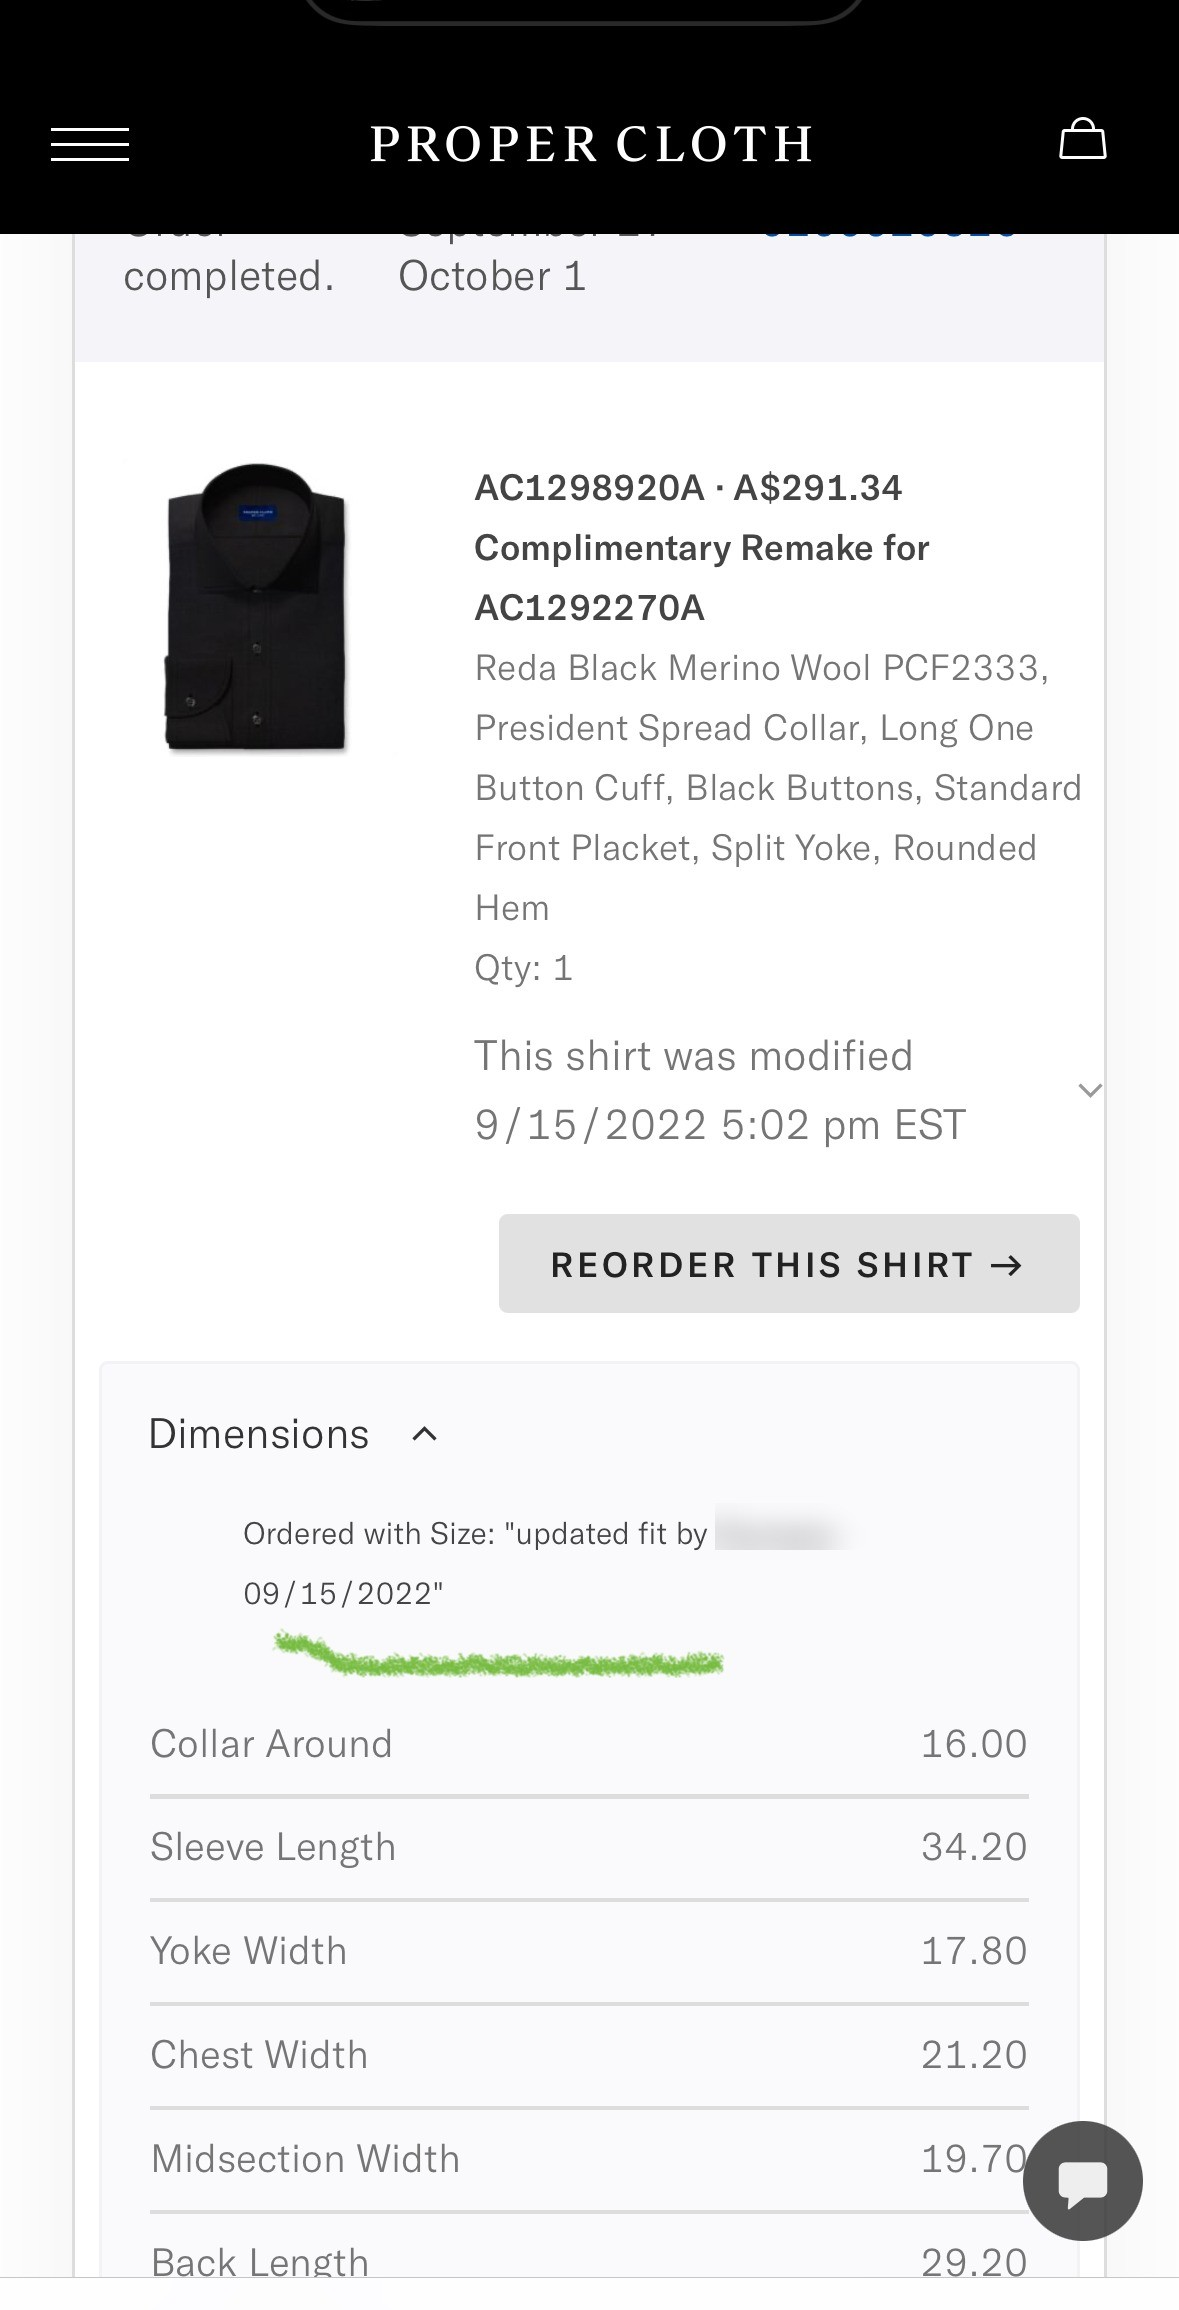
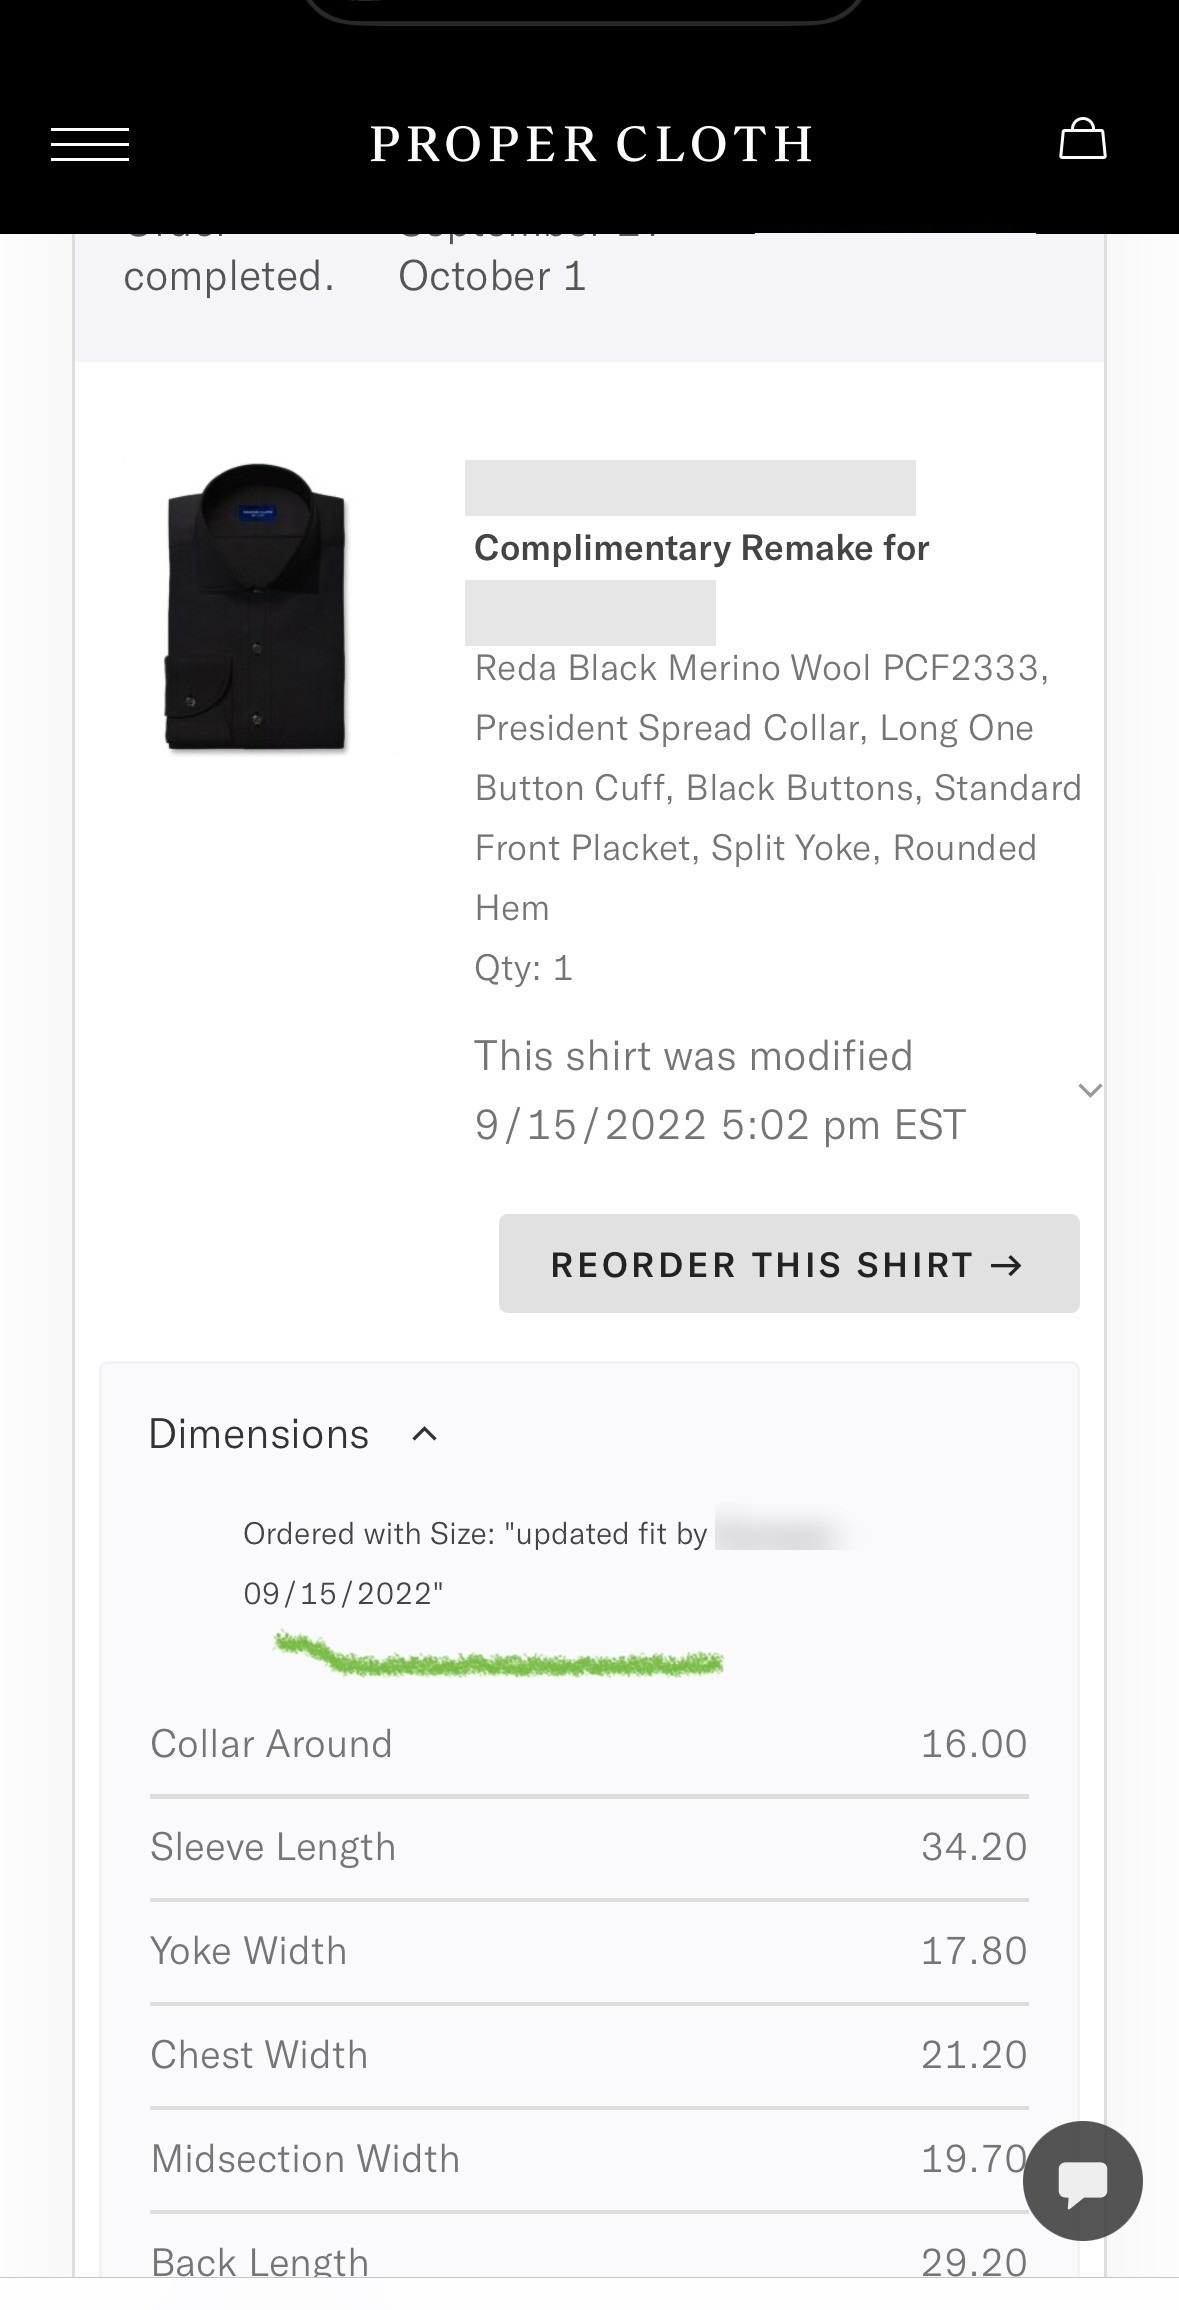
Redact exposed order numbers and phone number from live screenshots
proper-cloth-complimentary-remake.jpg had two full order numbers in
plain text plus a third partially visible under the nav bar, and
commbank-home-loan-appointment-confirmed.jpg had a phone number masked
to only 5 of 10 digits. Painted over all three with pixel-precise
background-matched redaction. Codified the full-frame-scan discipline
(including checking slivers of text hidden under other UI chrome) into
the spotted-in-the-wild skill so this doesn't slip through again.

Claude-Session: https://claude.ai/code/session_01Q6sAq7k5KJdTMe4pCpFx3P

Changed region(s): [[0.3969, 0.187, 0.7939, 0.2805]]

diff --git a/.claude/skills/spotted-in-the-wild/SKILL.md b/.claude/skills/spotted-in-the-wild/SKILL.md
@@ -35,6 +35,16 @@ It's a **real, third-party UI screenshot** offered as a live instance of a mecha
 - **A tightly-cropped screenshot (little margin around the content) breaks the "spotlight" and "hand-drawn circle" options and needs a wider canvas for anything drawn outside the existing frame.** On the second screenshot in the first real case (a two-line ratings badge filling almost the entire crop), spotlight lost its dramatic effect (nothing left to dim), and the circle's sketchy wobble grazed the surrounding text at the edges because there wasn't enough real margin to wobble into. When a highlight needs to extend beyond the tightest reasonable crop (an arrow with clearance, a circle with real breathing room), re-crop from the *original* source image with extra padding on the relevant side rather than padding the already-cropped file, and when programmatically cropping a working image to trim empty space back down afterward, clamp the crop bounds to the image's actual dimensions, `Image.crop()` silently pads out-of-bounds regions with solid black instead of erroring, which shipped once as an unexplained black bar at the bottom of a finished image before it was caught by re-viewing the file.
 - **When personal information sits between two regions you want to keep, don't redact or splice, just start the crop after it.** A real order-summary screenshot had a name and home address between the header and the rest of the page worth keeping. Compositing two non-adjacent regions together to skip the middle leaves a visible seam and looks edited, which undermines the whole point of showing something authentic. Instead, find the exact pixel row where the personal-information block ends (the same pixel-scan technique as locating a highlight box) and crop the single continuous region starting a safe margin below that row. The result is still one unedited, contiguous real screenshot, just missing its very top portion, which reads as an honest crop, not a doctored one.
 
+## Failure mode: the personal-information rule was written down and still didn't get checked
+
+**What happened.** Two images already live on the site (`proper-cloth-complimentary-remake.jpg`, a Science Behind screenshot, and `commbank-home-loan-appointment-confirmed.jpg`, an Experiments screenshot) had a staff name and a phone number blurred, per this skill's own rule, but nobody actually checked the rest of each image for other identifiers. `proper-cloth-complimentary-remake.jpg` had two full order numbers (`AC1298920A`, `AC1292270A`) sitting in plain, high-contrast text one line below the blurred name, unredacted, for days, on the live site. `commbank-home-loan-appointment-confirmed.jpg` had a mobile number masked to only 5 of its 10 digits (`04** *** 400`), leaving the area code and last three digits, which is a partial redaction, not a real one. The rule ("Personal information... must always be removed, no exception") was already written in this skill before either image shipped. It was applied to the one identifier that was easy to spot (a name in a sentence) and not applied as an exhaustive scan of the rest of the frame. A person's eye catches a name; it does not automatically catch a reference-code-shaped string sitting in a product heading, because it doesn't read as "personal information" the same way a name does.
+
+**The check, going forward.** Treat "remove personal information" as a full-frame scan for a category of thing, not a single find-the-name pass. Before finalizing any crop, look specifically for: order numbers, confirmation numbers, reference numbers, account numbers, tracking numbers, invoice numbers, booking references (anything alphanumeric that looks like `AC1298920A` or `#4471829`, whether or not it's labelled), phone numbers (full or partial), email addresses, physical addresses, and dates of birth. A masked value counts as fixed only if the masking removes enough of the string that the remaining fragment can't narrow down the full value in practice, for a phone number that means redacting the whole number, not leaving the area code and last few digits visible, since that's a small enough remaining search space to not count as anonymised. When redacting text found this way (as opposed to a name inside a sentence, where cropping above/below the line usually works), locate the string's real pixel bounding box the same way this skill already locates a highlight target (scan real RGB values in the saved file, not the rendered preview) and paint over it with a rectangle matching the surrounding background colour, padded a few pixels on each side, rather than trying to blur it (a solid fill is unambiguous and doesn't risk a recoverable blur).
+
+**Do this scan on every image before it's saved to `mockup/images/`, not just once at launch.** This applies retroactively too: when a new personal-information category is identified (as order numbers were here), it's worth a quick pass over every existing "spotted in the wild" image already on the site, not just future ones, since the failure is exactly that a real, identifiable item can sit on a live page for a while before anyone notices it wasn't actually covered by the rule everyone assumed was already being followed.
+
+**A third gotcha found while fixing the first two: a partially-hidden identifier under other UI chrome still counts.** `proper-cloth-complimentary-remake.jpg` had a *third* order number in the same image, one row of an order-summary table sitting almost entirely behind the screenshot's own black nav bar, with only the rounded bottom tips of its digits (in link-blue) poking out below the bar by a few pixels. Rendered small, this reads as a meaningless thin blue line, easy to dismiss as a UI border or anti-aliasing artifact rather than clipped text, which is exactly how it survived the first redaction pass. The check: when a full-frame scan turns up any sliver of colored or dark pixels running along a hard edge (a nav bar, a card boundary, a cropped panel), crop and zoom that exact sliver at 2-4x before deciding it's decorative. Redact it even if the remaining fragment looks illegible after zooming in, since "probably not readable" is not the same bar as "removed," and the cost of painting over a few stray pixels of true chrome is zero.
+
 ## Voice and rigor, same as everywhere else on the site
 
 - **Never let the caption blur "a real company uses this tactic" into "this tactic worked here."** The cited academic study is the site's evidence; the screenshot is an example of deployment, always phrased that way.
